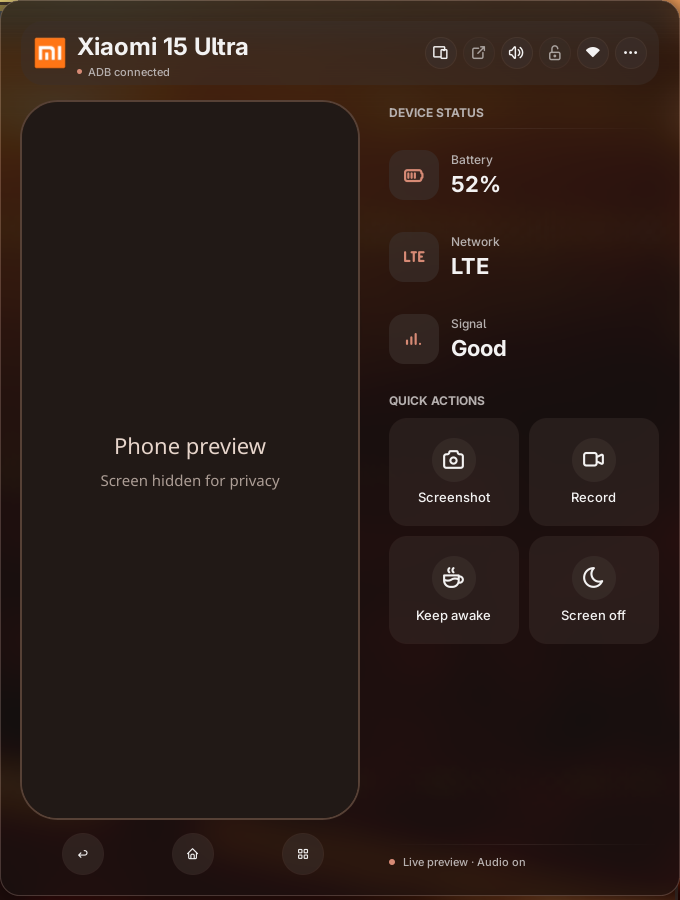
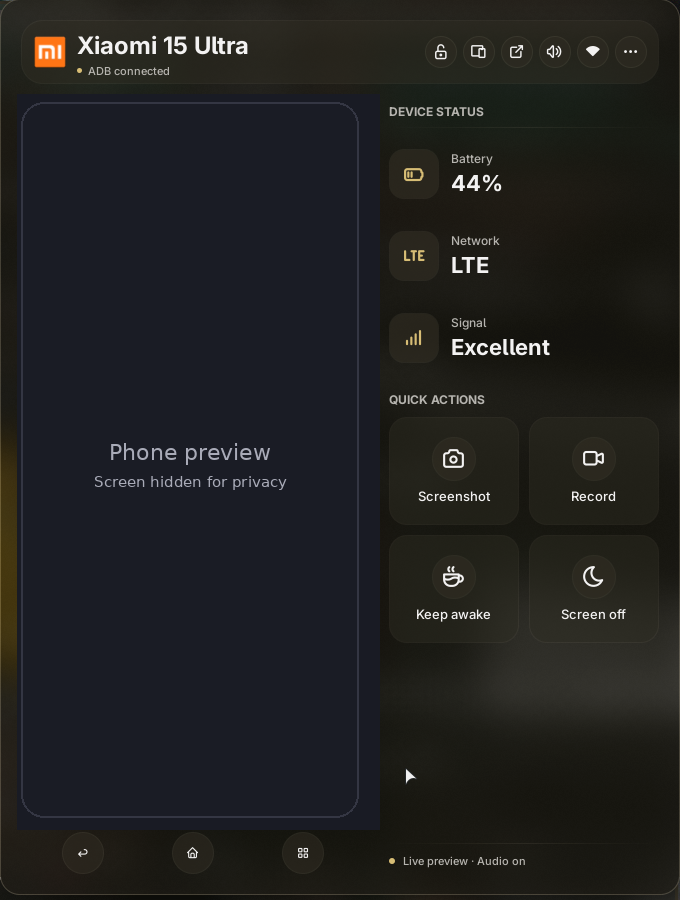
Outline panel controls and recover the companion on reload

diff --git a/tests/test_backend.py b/tests/test_backend.py
@@ -991,6 +991,27 @@ class CompanionTests(unittest.TestCase):
         self.assertTrue(line, "Companion exited unexpectedly")
         return json.loads(line)
 
+    def test_service_reload_waits_for_previous_companion(self):
+        with tempfile.TemporaryDirectory(prefix="ac-handoff-") as directory:
+            root = Path(directory)
+            data = root / "data"
+            data.mkdir()
+            env = dict(os.environ, XDG_RUNTIME_DIR=directory, PATH="/nonexistent")
+            command = [sys.executable, "-B", "-u", str(PLUGIN / "backend.py"), "--data", str(data), "--wait-for-lock"]
+            with (data / "companion.lock").open("a") as previous:
+                fcntl.flock(previous, fcntl.LOCK_EX)
+                process = subprocess.Popen(command, env=env, stdout=subprocess.PIPE, stderr=subprocess.PIPE, bufsize=0)
+                try:
+                    ready, _, _ = select.select([process.stdout], [], [], 0.4)
+                    self.assertFalse(ready, "Replacement exited or published before the lock was released")
+                    fcntl.flock(previous, fcntl.LOCK_UN)
+                    self.assertEqual(self.read_event(process)["kind"], "status")
+                    with self.assertRaises(BlockingIOError):
+                        fcntl.flock(previous, fcntl.LOCK_EX | fcntl.LOCK_NB)
+                finally:
+                    process.terminate()
+                    process.communicate(timeout=10)
+
     def test_private_start_commands_single_instance_and_shutdown(self):
         with tempfile.TemporaryDirectory(prefix="ac-companion-") as directory:
             root = Path(directory)

diff --git a/androidconnect/backend.py b/androidconnect/backend.py
@@ -1045,6 +1045,8 @@ class Bridge:
 def main():
     parser = argparse.ArgumentParser(description=__doc__)
     parser.add_argument("--data", required=True, type=Path)
+    parser.add_argument("--wait-for-lock", action="store_true",
+                        help="Wait for the previous Noctalia companion to finish shutting down")
     args = parser.parse_args()
     runtime = os.environ.get("XDG_RUNTIME_DIR", "")
     if not runtime or not Path(runtime).is_absolute():
@@ -1056,7 +1058,10 @@ def main():
     args.data.mkdir(parents=True, exist_ok=True)
     with (args.data / "companion.lock").open("a") as lock:
         try:
-            fcntl.flock(lock, fcntl.LOCK_EX | fcntl.LOCK_NB)
+            # A service reload can launch the new stream while its predecessor
+            # is still finishing recordings, probes, or preview cleanup.
+            flags = fcntl.LOCK_EX if args.wait_for_lock else fcntl.LOCK_EX | fcntl.LOCK_NB
+            fcntl.flock(lock, flags)
         except BlockingIOError:
             parser.error("AndroidConnect is already running")
         with tempfile.TemporaryDirectory(prefix="androidconnect-", dir=runtime) as directory:

diff --git a/androidconnect/README.md b/androidconnect/README.md
@@ -151,7 +151,9 @@ phone screen for privacy; no desktop or phone messages are included.
 
 Source and regression tests: [AndroidConnect v5](https://github.com/demencia89/noctalia-androidconnect-v5).
 Version 2.4.2 preserves the preview when you reselect a phone and starts wireless
-reconnection sooner when you switch devices. The v4 QML plugin remains a separate project.
+reconnection sooner when you switch devices. The revised package outlines the header
+and action and status icons, and resumes device updates after a plugin reload.
+The v4 QML plugin remains a separate project.
 
 Licensed under GPL-2.0-only; see [LICENSE](LICENSE). Based on WerWolv's original
 [Noctalia KDE Connect plugin](https://github.com/WerWolv/noctalia-kde-connect),

diff --git a/README.md b/README.md
@@ -25,6 +25,10 @@ selected wireless phone has a known host, AndroidConnect starts reconnecting
 without waiting for a full discovery pass. Preview startup also checks display
 size and orientation in one ADB request.
 
+The revised 2.4.2 package outlines the header, Device Status icons, and Quick
+Actions icons. On a plugin reload, the new companion waits for the previous
+one to release its lock before it takes over the device connection.
+
 ## Changes in 2.4.1
 
 The plugin directory matches the [community-store submission](https://github.com/noctalia-dev/community-plugins/pull/1311):
